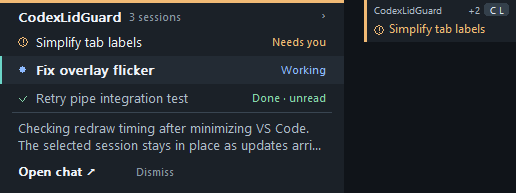
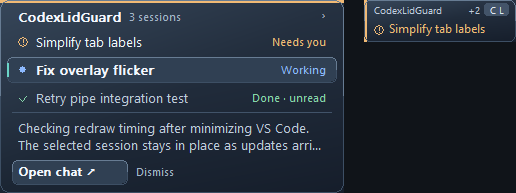
feat: add glass styling to project overlays

diff --git a/native/CodexLidGuard/src/overlay_group_window.rs b/native/CodexLidGuard/src/overlay_group_window.rs
@@ -1,6 +1,8 @@
 //! Compact task-list tabs and a fixed master-detail project drawer.
 use super::*;
 use crate::overlay::groups::{GroupSession, ProjectGroup};
+#[path = "overlay_glass.rs"]
+mod glass;
 
 pub(super) const TAB_WIDTH: i32 = 152;
 pub(super) const TAB_HEIGHT: i32 = 42;
@@ -452,11 +454,11 @@ pub(super) unsafe fn paint_panel(dc: Handle, state: &OverlayState, rect: Rect) {
         let Some(ui) = &state.group else { return };
         let dpi = state.dpi.max(96);
         let d = |n| scale_dip(n, dpi);
-        let foreground = color_ref(237, 242, 247);
-        let muted = color_ref(174, 187, 200);
-        let subtle = color_ref(139, 152, 165);
-        let edge = color_ref(57, 69, 81);
-        fill_rectangle(dc, &rect, color_ref(27, 33, 40));
+        let foreground = color_ref(242, 247, 253);
+        let muted = color_ref(191, 204, 220);
+        let subtle = color_ref(164, 181, 201);
+        let edge = color_ref(65, 83, 105);
+        glass::surface(dc, rect);
         fill_rectangle(
             dc,
             &Rect {
@@ -555,23 +557,23 @@ pub(super) unsafe fn paint_panel(dc: Handle, state: &OverlayState, rect: Rect) {
             let y = ui.list.top + d(ROW) * index as i32;
             let selected = ui.selected.as_ref() == Some(&session.id);
             if selected {
-                fill_rectangle(
+                glass::plate(
                     dc,
-                    &Rect {
-                        left: 0,
-                        top: y,
-                        right: rect.right,
-                        bottom: y + d(ROW),
+                    Rect {
+                        left: d(7),
+                        top: y + d(1),
+                        right: rect.right - d(7),
+                        bottom: y + d(ROW) - d(1),
                     },
-                    color_ref(35, 43, 52),
+                    dpi,
                 );
                 fill_rectangle(
                     dc,
                     &Rect {
-                        left: 0,
-                        top: y,
-                        right: d(2),
-                        bottom: y + d(ROW),
+                        left: d(7),
+                        top: y + d(7),
+                        right: d(9),
+                        bottom: y + d(ROW) - d(7),
                     },
                     identity_color(&ui.group.key),
                 );
@@ -666,6 +668,10 @@ pub(super) unsafe fn paint_panel(dc: Handle, state: &OverlayState, rect: Rect) {
             } else {
                 "Open chat \u{2197}"
             };
+            glass::plate(dc, Rect {
+                left: d(12), top: y + d(47),
+                right: d(128), bottom: y + d(72),
+            }, dpi);
             text(
                 dc,
                 action,
@@ -706,6 +712,7 @@ pub(super) unsafe fn paint_panel(dc: Handle, state: &OverlayState, rect: Rect) {
                 );
             }
         }
+        glass::rim(dc, rect, d(9));
         SelectObject(dc, old);
         for handle in [regular, heading, small, action_font] {
             if !handle.is_null() {
@@ -723,7 +730,7 @@ pub(super) unsafe fn paint_tab(dc: Handle, tab: Rect, state: &OverlayState, dpi:
         IntersectClipRect(dc, tab.left, tab.top, tab.right, tab.bottom);
         let left = tab.right - d(TAB_WIDTH);
         let base = Rect { left, ..tab };
-        fill_rectangle(dc, &base, color_ref(27, 33, 40));
+        glass::surface(dc, base);
         fill_rectangle(
             dc,
             &Rect {
@@ -753,7 +760,7 @@ pub(super) unsafe fn paint_tab(dc: Handle, tab: Rect, state: &OverlayState, dpi:
                 right: tab.right - d(reserved),
                 bottom: tab.top + d(18),
             },
-            color_ref(174, 187, 200),
+            color_ref(191, 204, 220),
             DT_SINGLELINE | DT_END_ELLIPSIS,
         );
         if let Some(code) = badge {
@@ -769,7 +776,7 @@ pub(super) unsafe fn paint_tab(dc: Handle, tab: Rect, state: &OverlayState, dpi:
                 if state.shortcut_hints {
                     color_ref(202, 185, 139)
                 } else {
-                    color_ref(52, 64, 75)
+                    color_ref(67, 84, 105)
                 },
                 d(3),
             );
@@ -796,7 +803,7 @@ pub(super) unsafe fn paint_tab(dc: Handle, tab: Rect, state: &OverlayState, dpi:
                     right,
                     bottom: tab.top + d(18),
                 },
-                color_ref(174, 187, 200),
+                color_ref(191, 204, 220),
                 DT_SINGLELINE | 2,
             );
         }
@@ -829,7 +836,7 @@ pub(super) unsafe fn paint_tab(dc: Handle, tab: Rect, state: &OverlayState, dpi:
                 if session.needs_input {
                     status_color(session)
                 } else {
-                    color_ref(237, 242, 247)
+                    color_ref(242, 247, 253)
                 },
                 DT_SINGLELINE | DT_VCENTER | DT_END_ELLIPSIS,
             );
@@ -840,6 +847,7 @@ pub(super) unsafe fn paint_tab(dc: Handle, tab: Rect, state: &OverlayState, dpi:
                 DeleteObject(handle);
             }
         }
+        glass::rim(dc, base, d(6));
         RestoreDC(dc, saved);
     }
 }
@@ -1092,27 +1100,46 @@ mod tests {
                 );
                 SetBkMode(dc, TRANSPARENT);
                 SelectObject(dc, state.font);
-                paint_panel(
-                    dc,
-                    &state,
-                    Rect {
-                        left: 0,
-                        top: 0,
-                        right: scale_dip(PANEL_WIDTH, dpi),
-                        bottom: height,
-                    },
-                );
-                paint_tab(
-                    dc,
-                    Rect {
-                        left: scale_dip(PANEL_WIDTH + 20, dpi),
-                        top: 0,
-                        right: width,
-                        bottom: scale_dip(state.group.as_ref().unwrap().tab_height(), dpi),
-                    },
-                    &state,
-                    dpi,
-                );
+                // Opt-in cold-paint benchmark; normal frames reuse the drawer cache.
+                let iterations = std::env::var("CODEX_OVERLAY_BENCH_ITERATIONS")
+                    .ok()
+                    .and_then(|value| value.parse::<u32>().ok())
+                    .unwrap_or(1)
+                    .clamp(1, 10_000);
+                #[link(name = "gdi32")]
+                unsafe extern "system" {
+                    fn GdiFlush() -> Bool;
+                }
+                GdiFlush();
+                let started = Instant::now();
+                for _ in 0..iterations {
+                    paint_panel(
+                        dc,
+                        &state,
+                        Rect {
+                            left: 0,
+                            top: 0,
+                            right: scale_dip(PANEL_WIDTH, dpi),
+                            bottom: height,
+                        },
+                    );
+                    paint_tab(
+                        dc,
+                        Rect {
+                            left: scale_dip(PANEL_WIDTH + 20, dpi),
+                            top: 0,
+                            right: width,
+                            bottom: scale_dip(state.group.as_ref().unwrap().tab_height(), dpi),
+                        },
+                        &state,
+                        dpi,
+                    );
+                    GdiFlush();
+                }
+                if iterations > 1 {
+                    println!("overlay paint: dpi={dpi} sessions={session_count} iterations={iterations} us_per_pair={:.2}",
+                        started.elapsed().as_secs_f64() * 1_000_000.0 / f64::from(iterations));
+                }
                 let ui = state.group.as_ref().unwrap();
                 assert!(
                     matches!(ui.hit(scale_dip(22,dpi),scale_dip(if session_count > 1 {70} else {42},dpi)),Some(Action::Select(id)) if id=="0")

diff --git a/native/CodexLidGuard/src/overlay_glass.rs b/native/CodexLidGuard/src/overlay_glass.rs
@@ -1,0 +1,104 @@
+//! Static glass lighting painted into the overlay's existing cached surfaces.
+//! Transparency comes from the layered window; no backdrop capture or blur pass.
+use super::*;
+
+#[repr(C)]
+struct Vertex {
+    x: i32,
+    y: i32,
+    red: u16,
+    green: u16,
+    blue: u16,
+    alpha: u16,
+}
+
+impl Vertex {
+    fn new(x: i32, y: i32, red: u8, green: u8, blue: u8) -> Self {
+        Self {
+            x,
+            y,
+            red: u16::from(red) << 8,
+            green: u16::from(green) << 8,
+            blue: u16::from(blue) << 8,
+            alpha: 0,
+        }
+    }
+}
+
+#[link(name = "msimg32")]
+unsafe extern "system" {
+    fn GradientFill(
+        dc: Handle,
+        vertices: *const Vertex,
+        count: u32,
+        mesh: *const u32,
+        mesh_count: u32,
+        mode: u32,
+    ) -> Bool;
+}
+
+pub(super) unsafe fn surface(dc: Handle, rect: Rect) {
+    unsafe {
+        let vertices = [
+            Vertex::new(rect.left, rect.top, 55, 71, 90),
+            Vertex::new(rect.right, rect.top, 38, 50, 66),
+            Vertex::new(rect.left, rect.bottom, 27, 37, 51),
+            Vertex::new(rect.right, rect.bottom, 22, 30, 43),
+        ];
+        // Two triangles give the surface a quiet diagonal reflection.
+        let triangles = [0, 1, 2, 1, 3, 2];
+        if GradientFill(dc, vertices.as_ptr(), 4, triangles.as_ptr(), 2, 2) == 0 {
+            fill_rectangle(dc, &rect, color_ref(30, 40, 54));
+        }
+    }
+}
+
+pub(super) unsafe fn rim(dc: Handle, rect: Rect, radius: i32) {
+    unsafe {
+        let saved = SaveDC(dc);
+        if saved == 0 {
+            return;
+        }
+        let old_brush = SelectObject(dc, GetStockObject(5)); // NULL_BRUSH
+        for (upper, color) in [
+            (false, color_ref(61, 79, 100)),
+            (true, color_ref(103, 124, 147)),
+        ] {
+            let pen = CreatePen(0, 1, color);
+            if pen.is_null() {
+                continue;
+            }
+            let old_pen = SelectObject(dc, pen);
+            if upper {
+                IntersectClipRect(
+                    dc,
+                    rect.left,
+                    rect.top,
+                    rect.right,
+                    rect.top + (rect.bottom - rect.top) / 2,
+                );
+            }
+            RoundRect(
+                dc,
+                rect.left,
+                rect.top,
+                rect.right,
+                rect.bottom,
+                radius * 2,
+                radius * 2,
+            );
+            SelectObject(dc, old_pen);
+            DeleteObject(pen);
+        }
+        SelectObject(dc, old_brush);
+        RestoreDC(dc, saved);
+    }
+}
+
+pub(super) unsafe fn plate(dc: Handle, rect: Rect, dpi: u32) {
+    unsafe {
+        let radius = scale_dip(5, dpi);
+        fill_rounded_rectangle(dc, &rect, color_ref(48, 64, 83), radius);
+        rim(dc, rect, radius);
+    }
+}

diff --git a/docs/overlay-glass-0.2.6.md b/docs/overlay-glass-0.2.6.md
@@ -1,0 +1,31 @@
+# Glass overlay (0.2.6)
+
+Project tabs and drawers use a dark, translucent glass appearance: a diagonal slate tint, a fine illuminated edge, inset selection, and a raised Open/Reply/Read action. Status colors, shortcut badges, layout, hit targets, and the existing opacity setting remain available.
+
+This is a glass-style tint, without live backdrop blur. GDI paints the lighting into the existing buffers. The drawer stays cached between content changes and during slide animation; the small tab is painted through its existing path. The change introduces no additional surfaces, dependencies, polling, or animation timers. Temporary GDI pens are restored and deleted after painting. A failed gradient fill falls back to a solid tint.
+
+## Drawing cost
+
+Measured on this Windows machine on 2026-09-17 using optimized native render fixtures. The baseline uses the 0.2.5 painter with the same opt-in benchmark harness. Each figure is the mean of two runs of 1,000 complete drawer-and-tab repaints, ordered baseline/glass/glass/baseline. Each iteration flushes GDI. No build or other validation ran during these comparison samples.
+
+| Scale | Sessions | Baseline | Glass | Extra per full redraw |
+| --- | ---: | ---: | ---: | ---: |
+| 100% | 1 | 0.519 ms | 0.866 ms | 0.346 ms |
+| 100% | 3 | 0.657 ms | 0.823 ms | 0.166 ms |
+| 150% | 3 | 0.633 ms | 0.840 ms | 0.207 ms |
+| 200% | 3 | 0.713 ms | 1.078 ms | 0.365 ms |
+| 100% | 5, shortcut hints | 0.832 ms | 1.531 ms | 0.699 ms |
+| 200% | 10 | 1.404 ms | 1.932 ms | 0.527 ms |
+
+These are cold paint costs, including text, font creation, and controls. They do not represent idle CPU usage, cached animation-frame cost, GPU utilization, or battery-life measurements. Real timing varies by device and system load. The existing cache avoids repainting the full drawer for every animation frame.
+
+The existing native rendering fixtures cover 100%, 150%, and 200% scale, short and overflowing lists, and shortcut hints. Export them or repeat the glass benchmark with:
+
+```powershell
+$env:CODEX_OVERLAY_BENCH_ITERATIONS = '1000'
+cargo test --release --locked --manifest-path native/CodexLidGuard/Cargo.toml native_grouped_render_and_hit_targets -- --nocapture
+# Omit the benchmark variable for normal tests. Optional render output:
+$env:CODEX_OVERLAY_RENDER_DIR = Join-Path $env:TEMP 'codex-overlay-glass-renders'
+```
+
+The default test run uses one repaint. The screenshot in the README is an opaque rendering fixture; the running overlay additionally uses the configured window opacity (82% by default).

diff --git a/README.md b/README.md
@@ -51,6 +51,10 @@ To try the controls without starting a task, run **Codex Lid Guard: Preview Mess
 
 ## Message overlays
 
+Tabs and drawers use a dark glass style with soft highlights and fine edges. Adjust **Overlay Opacity** to control transparency. The glass lighting is static, so it adds no continuous animation or live background blur.
+
+![Project tabs and a glass drawer with a selected session.](extension/images/screenshots/overlay-project-groups.png)
+
 Each project has a small 152 by 42 DIP tab showing its name, highest-priority task, status icon, and a +N count for other sessions. Expand it to see a 344 DIP drawer with up to four compact task rows, a two-line update, and Open/Dismiss actions. Larger lists scroll; selecting a task keeps the rows in place. Neighboring tabs visibly slide aside first; expansion waits until they are clear. Tabs slide back only after the drawer has fully folded. Switching projects folds the previous drawer first. The expanded project stays above sibling tabs without taking keyboard focus. Same-named folders get distinct path labels, with their full path shown in the drawer header.
 
 The session currently viewed in a focused editor hides from the preview; other sessions in its project remain available. The project tab hides when it has no visible sessions. It returns when you switch away.

diff --git a/extension/README.md b/extension/README.md
@@ -51,6 +51,10 @@ To try the controls without starting a task, run **Codex Lid Guard: Preview Mess
 
 ## Message overlays
 
+Tabs and drawers use a dark glass style with soft highlights and fine edges. Adjust **Overlay Opacity** to control transparency. The glass lighting is static, so it adds no continuous animation or live background blur.
+
+![Project tabs and a glass drawer with a selected session.](images/screenshots/overlay-project-groups.png)
+
 Each project has a small 152 by 42 DIP tab showing its name, highest-priority task, status icon, and a +N count for other sessions. Expand it to see a 344 DIP drawer with up to four compact task rows, a two-line update, and Open/Dismiss actions. Larger lists scroll; selecting a task keeps the rows in place. Neighboring tabs visibly slide aside first; expansion waits until they are clear. Tabs slide back only after the drawer has fully folded. Switching projects folds the previous drawer first. The expanded project stays above sibling tabs without taking keyboard focus. Same-named folders get distinct path labels, with their full path shown in the drawer header.
 
 The session currently viewed in a focused editor hides from the preview; other sessions in its project remain available. The project tab hides when it has no visible sessions. It returns when you switch away.

diff --git a/CHANGELOG.md b/CHANGELOG.md
@@ -1,5 +1,9 @@
 # Changelog
 
+## 0.2.6
+
+- Give project tabs and drawers a dark glass appearance with translucent surfaces, soft highlights, fine edges, and inset selection and action controls. Keep the existing opacity setting and cached drawing path; no live background blur or extra animation timers.
+
 ## 0.2.5
 
 - Keep assigned two-letter shortcuts visible on compact project tabs. Use a quiet badge normally and highlight it while the shortcut prefix is held. Keep the extra-session count visible alongside it.

diff --git a/extension/CHANGELOG.md b/extension/CHANGELOG.md
@@ -1,5 +1,9 @@
 # Changelog
 
+## 0.2.6
+
+- Give project tabs and drawers a dark glass appearance with translucent surfaces, soft highlights, fine edges, and inset selection and action controls. Keep the existing opacity setting and cached drawing path; no live background blur or extra animation timers.
+
 ## 0.2.5
 
 - Keep assigned two-letter shortcuts visible on compact project tabs. Use a quiet badge normally and highlight it while the shortcut prefix is held. Keep the extra-session count visible alongside it.
